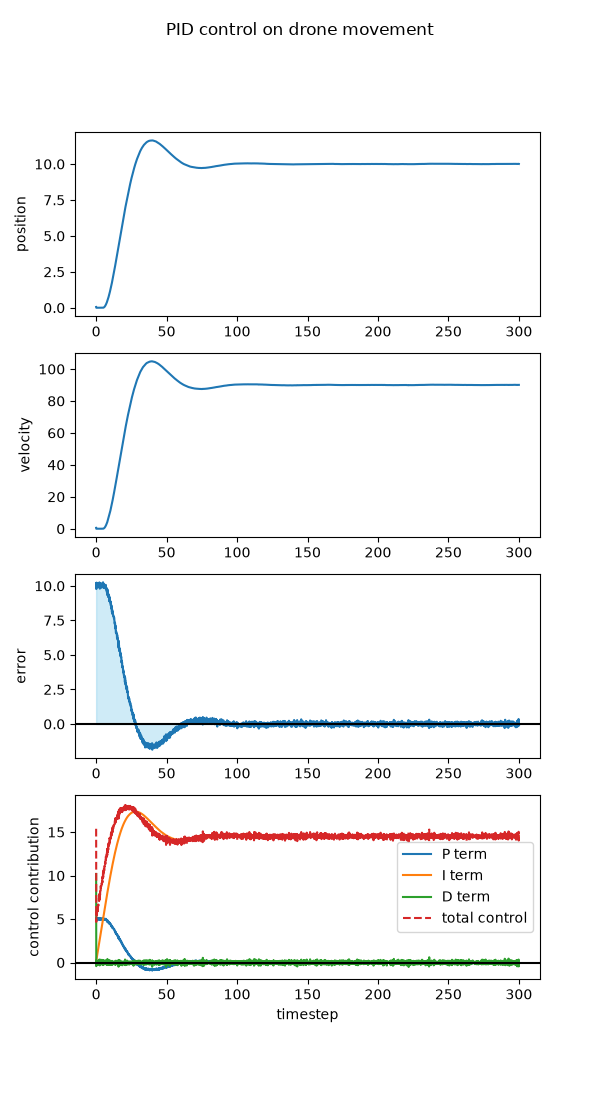
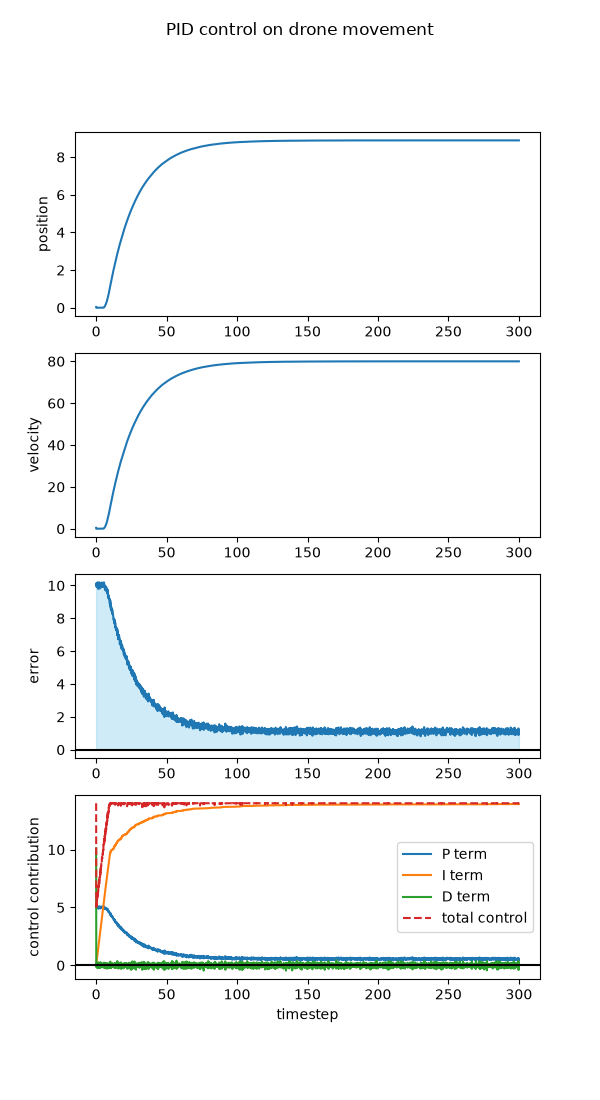
clamping test

diff --git a/main.py b/main.py
@@ -6,8 +6,12 @@ from pid import PID
 
 dt = 0.1 # time step
 n = 3000  # number of steps
+
+# saturation
+saturation = 14.0
+
 plant = Plant_Car(mass=1.0, friction=0.05, initial_state=[0.0, 1.0])
-plant_drone = Plant_Drone(mass=1.0, friction=0.05, initial_state=[0.0, 0.0])
+plant_drone = Plant_Drone(mass=1.0, friction=0.05, initial_state=[0.0, 0.0], saturation=saturation)
 
 # record of state change
 history = np.zeros((n,2))
@@ -25,7 +29,7 @@ ctrl_PID = PID(Kp=0.5, Ki=0.1, Kd=0.1)
 for i in range(n):
     noisy_state = plant_drone.state[0] + np.random.normal(loc=0, scale=noise_std) # add sensor noise
 
-    plant_drone.step(ctrl_PID.compute(command=cmd, output=noisy_state, dt=dt), dt) # compute control input based on position 100 
+    plant_drone.step(ctrl_PID.compute(command=cmd, output=noisy_state, dt=dt, u_min=-saturation, u_max=saturation), dt) # compute control input based on position 100 
     history[i] = plant_drone.state
 
 # plot dynamics

diff --git a/pid.py b/pid.py
@@ -18,8 +18,6 @@ class PID:
         derivative = (error - self.previous_error) / dt
 
         temp_integral = self.integral + error * dt
-        
-        
 
         P_term = self.Kp * error
         I_term = self.Ki * temp_integral
